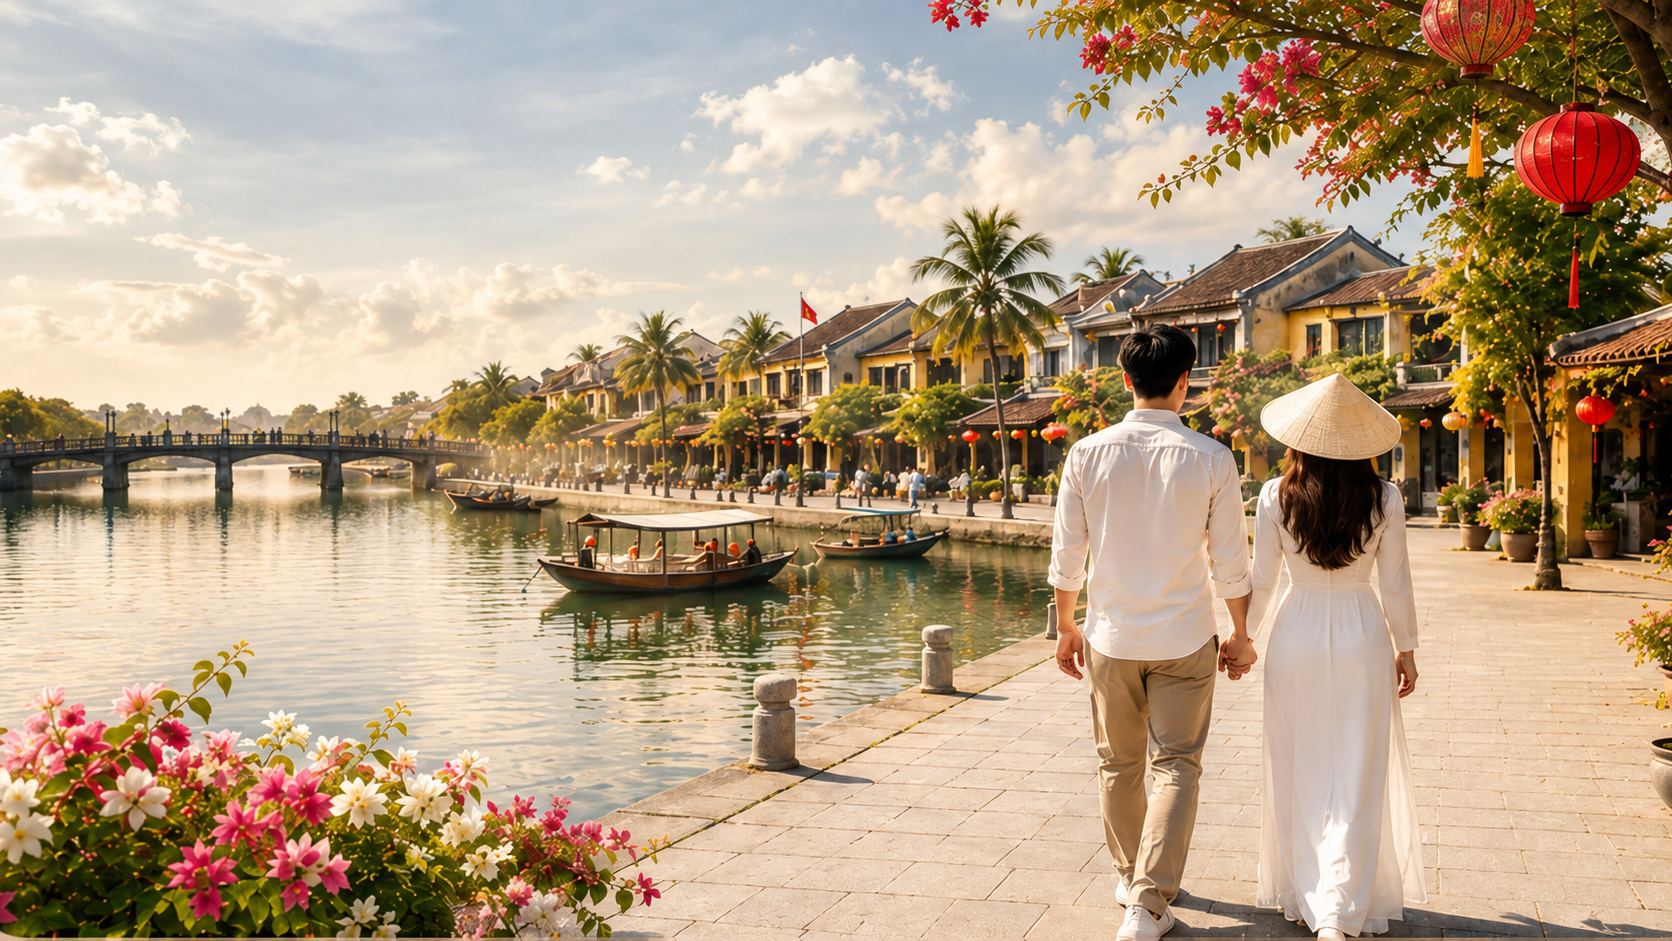
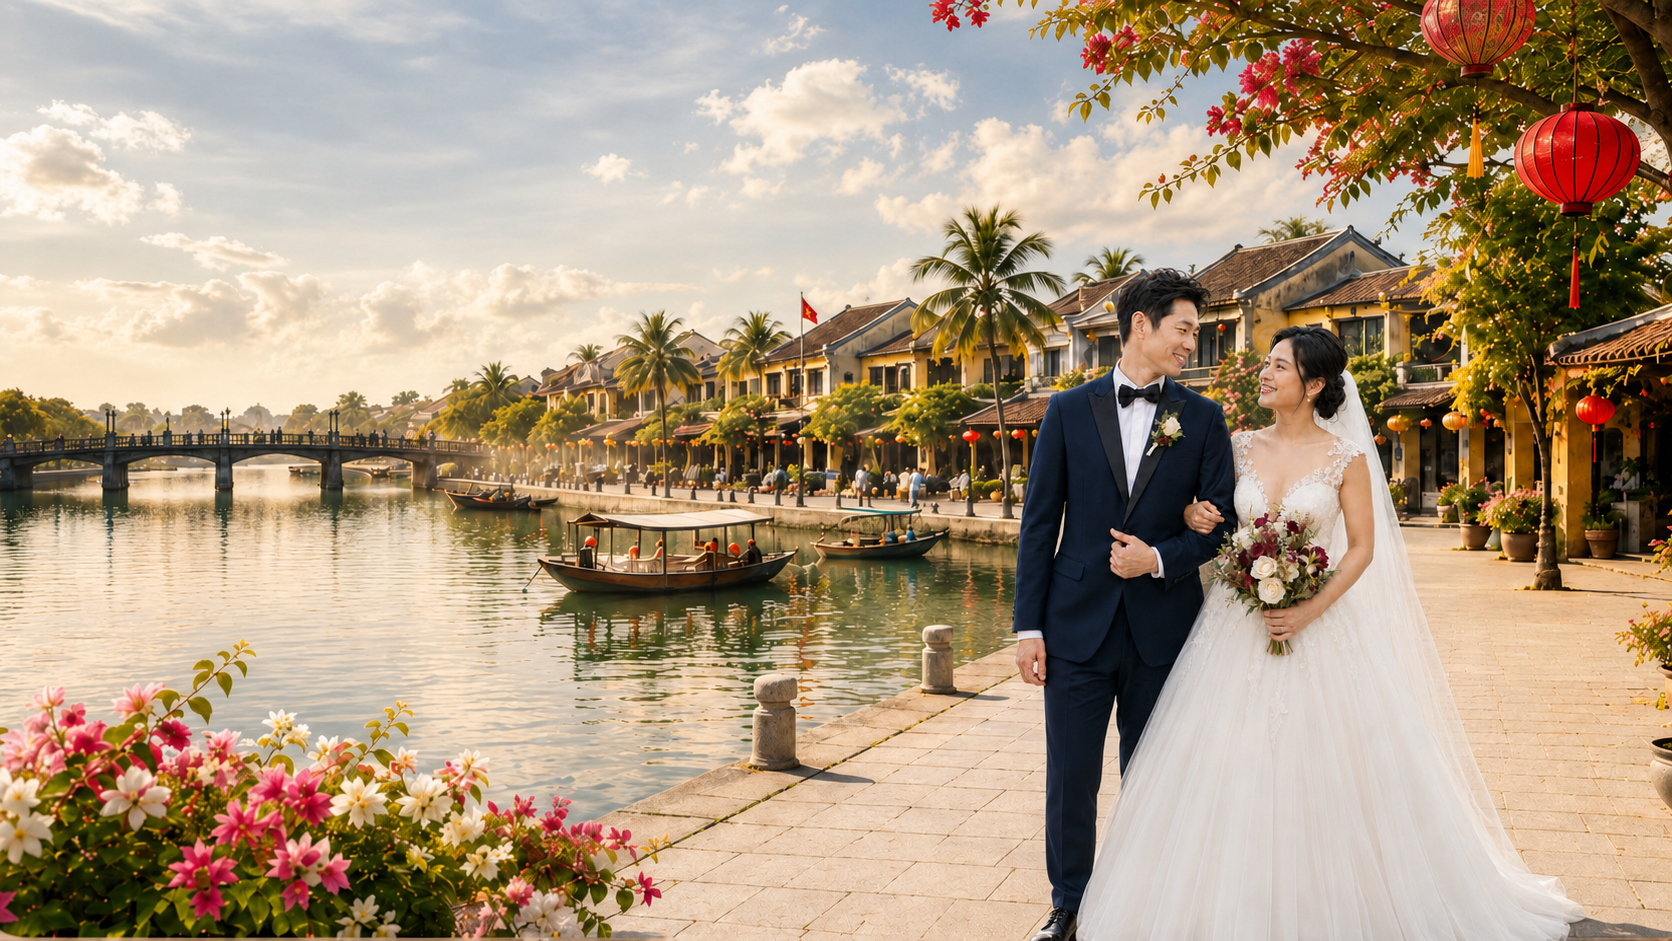
090301

diff --git a/assets/css/style.css b/assets/css/style.css
@@ -1133,7 +1133,7 @@ p { line-height:1.75; }
 /* Mobile homepage hero: dedicated wedding-couple visual */
 @media (max-width: 760px) {
   .hero {
-    min-height:690px;
+    min-height:610px;
     padding:0;
     background:#f8f1e8;
   }
@@ -1145,7 +1145,7 @@ p { line-height:1.75; }
     opacity:1;
     background-image:url('../images/hero-main-mobile.png');
     background-size:cover;
-    background-position:center center;
+    background-position:center 93%;
     -webkit-mask-image:none;
     mask-image:none;
   }
@@ -1162,15 +1162,15 @@ p { line-height:1.75; }
   }
   .hero-inner {
     width:100%;
-    min-height:690px;
-    padding:48px 20px 28px;
+    min-height:610px;
+    padding:40px 20px 18px;
   }
   .hero-copy {
     display:flex;
     flex-direction:column;
     width:100%;
     max-width:none;
-    min-height:614px;
+    min-height:552px;
   }
   .hero-kicker {
     max-width:310px;
@@ -1194,7 +1194,7 @@ p { line-height:1.75; }
     font-size:15px;
     line-height:1.75;
   }
-  .hero-description br { display:none; }
+  .hero-description br { display:block; }
   .hero-actions {
     display:grid;
     gap:10px;
